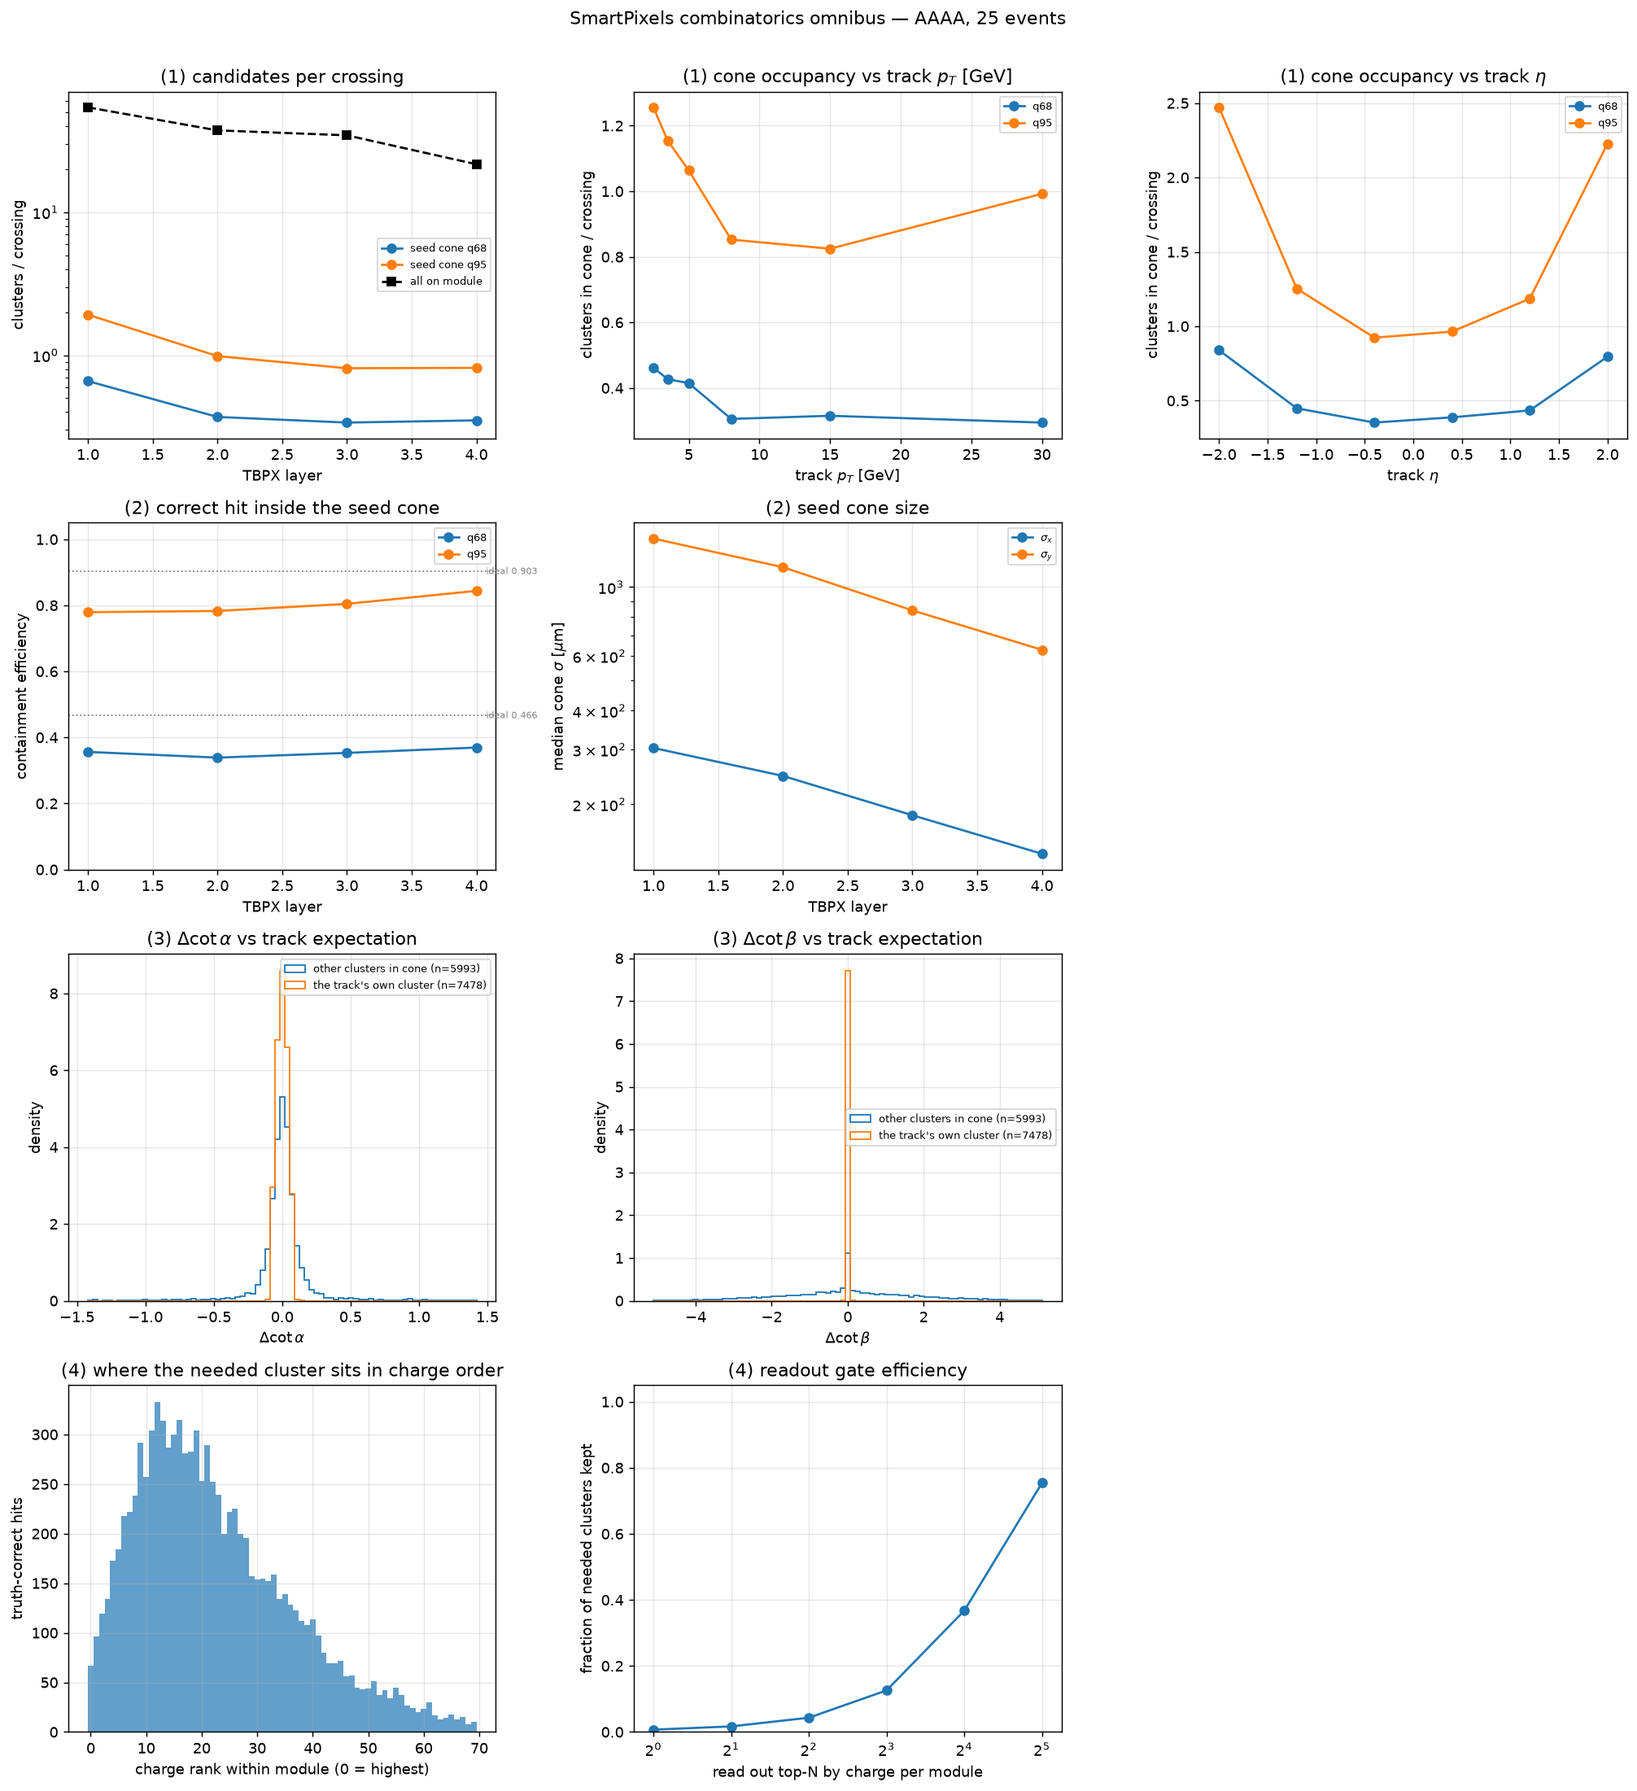
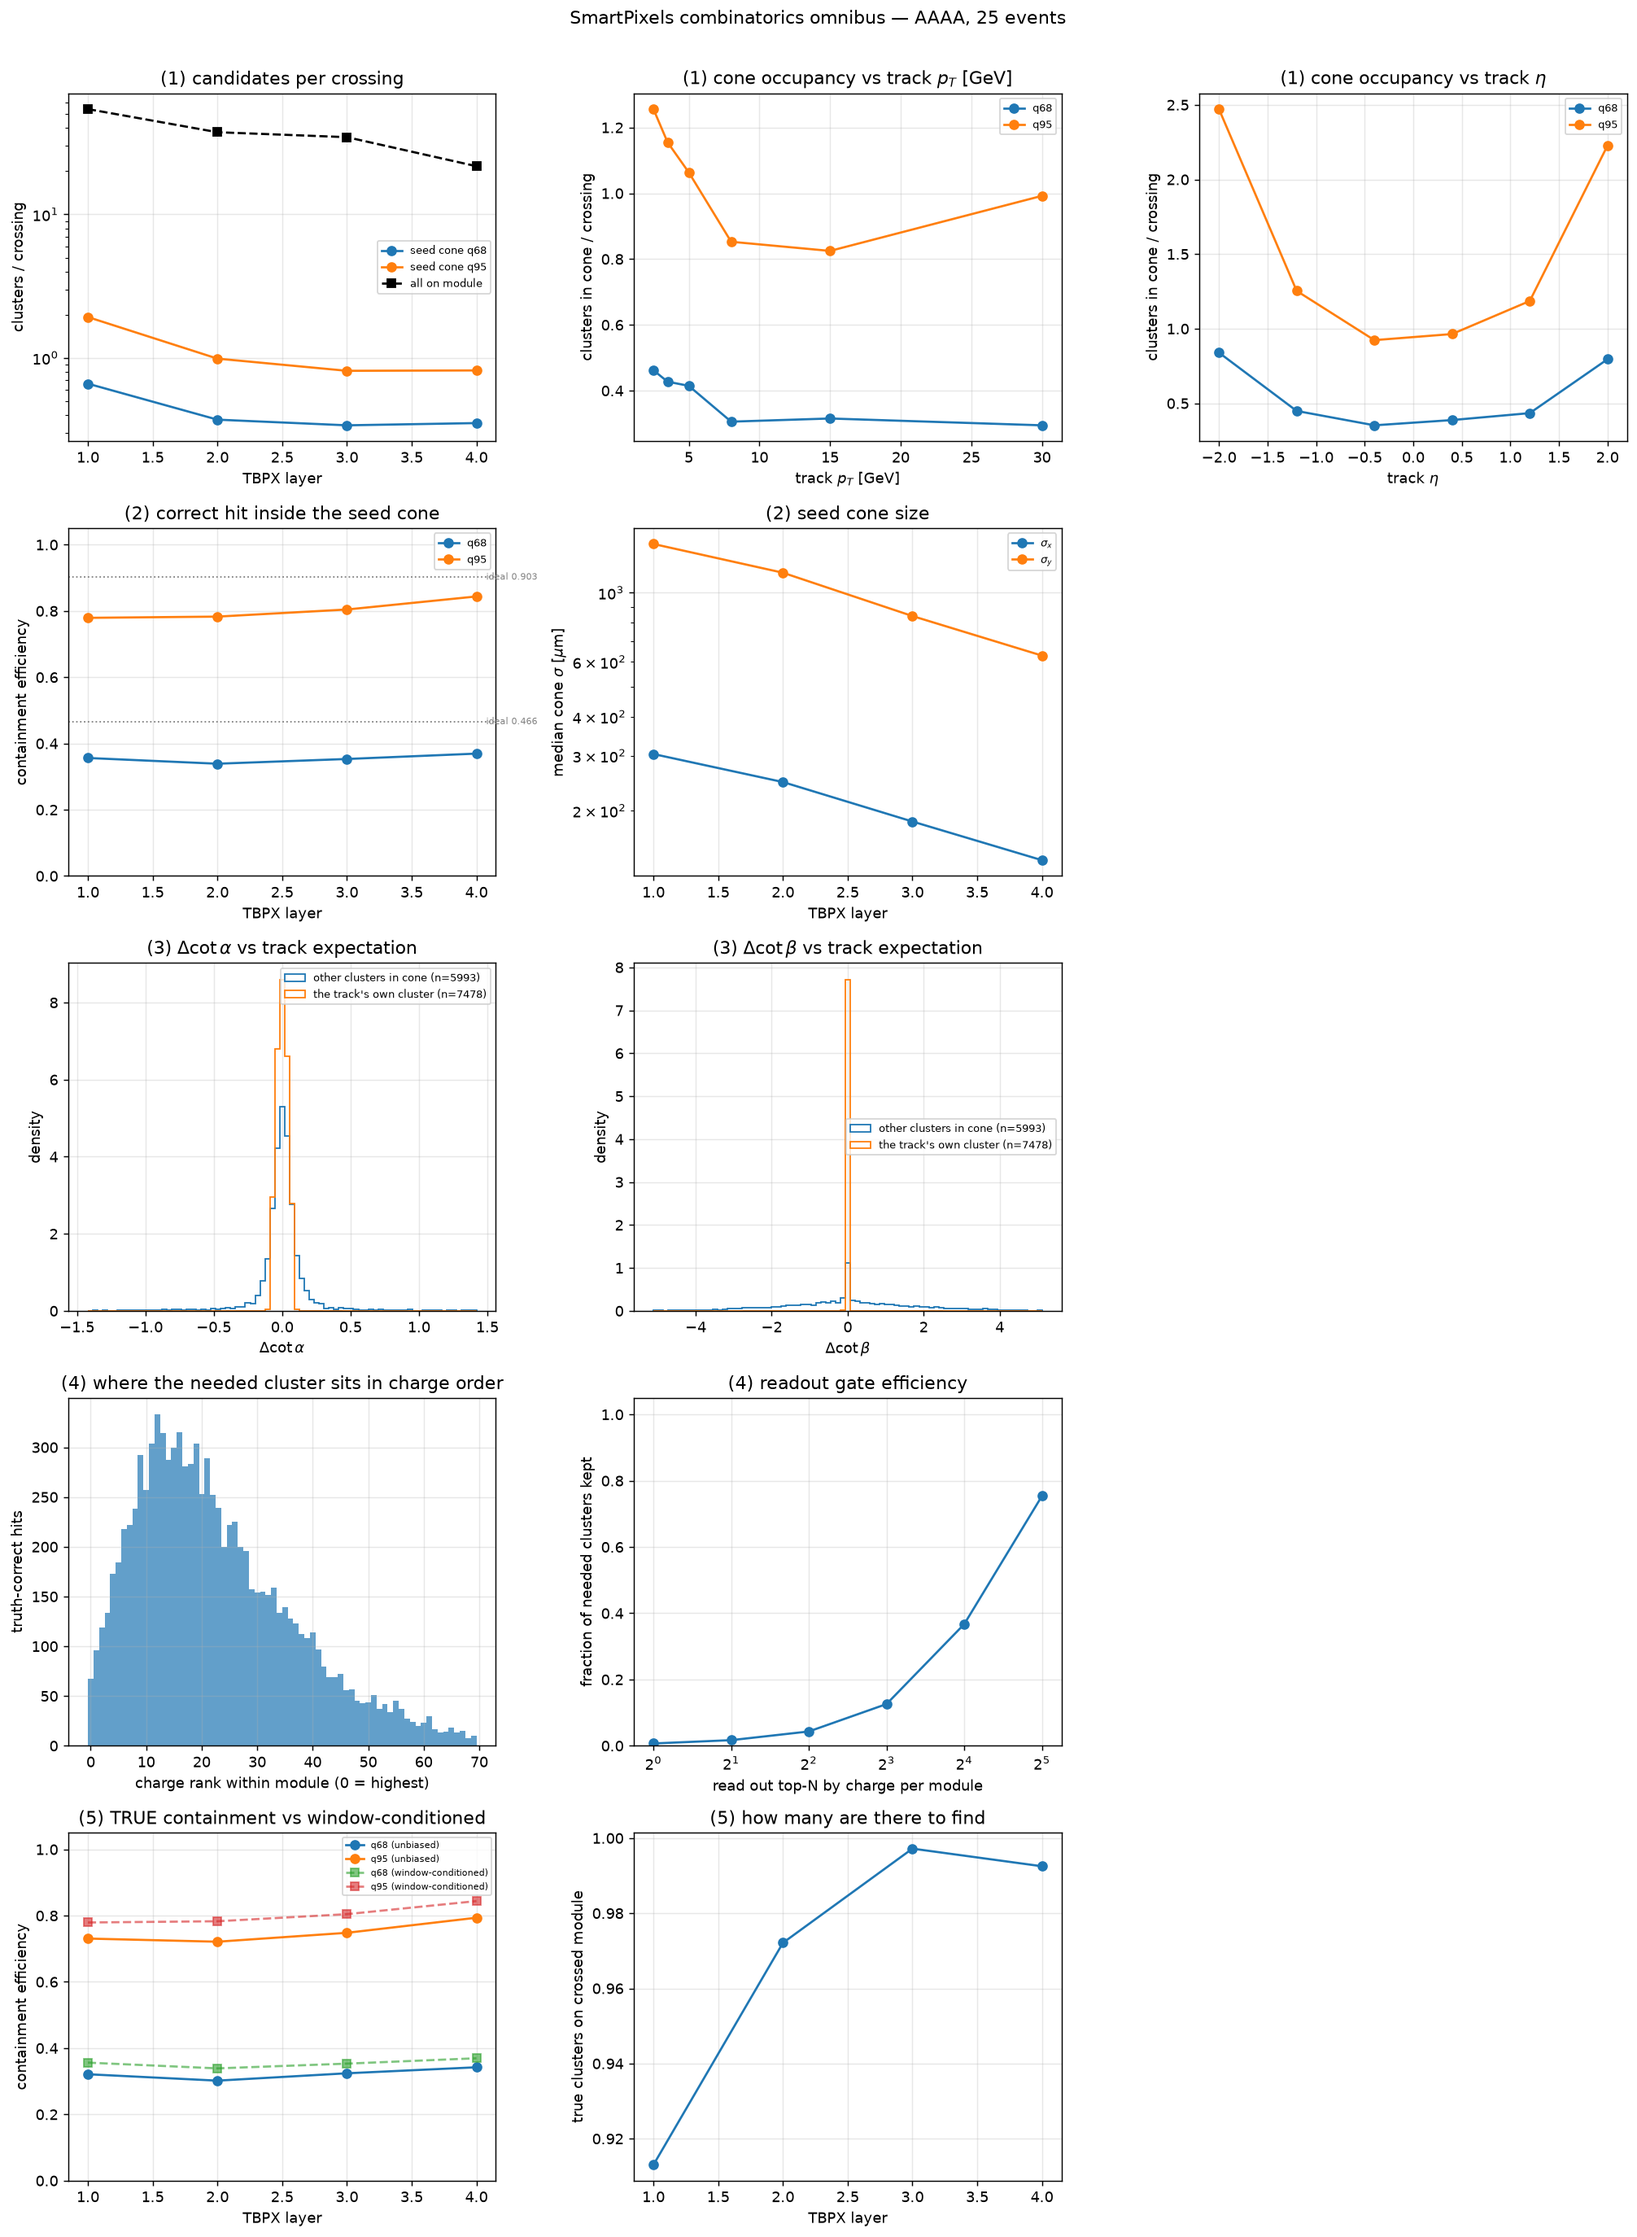
Use the exact cluster links; add unbiased cone containment
selClusterIdx and truthTpIdx now exist, so both reconstructions the script was
doing are replaced by the real links.

selected_global_index() uses selClusterIdx and ASSERTS
cluster[selClusterIdx].detId == crossing.detId, refusing to report anything if it
fails. The previous nearest-cluster matching was not merely inelegant: the two
tables disagree on position by up to 9.7 um (10-bit nano mantissa) against a
25 um pitch, so it could pick a neighbouring cluster and silently mislabel which
cluster the fit chose. Verified 100.0000% on 1660 noPU crossings and again on
PU200, 0 failures.

Study (5), unbiased containment, is the one these columns were added for. Study
(2) can only see clusters the current static window already offered, so it is
structurally blind to a true cluster the window never showed the fit -- exactly
the failure a cone redesign is meant to find. (5) locates the track's true
clusters by joining truthTpIdx to spixMatchedTpIdx, independent of the window.

PU200, 25 events, ideal box containment 0.466 (q68) / 0.903 (q95):

  q68   unbiased 0.320   window-conditioned 0.353
  q95   unbiased 0.744   window-conditioned 0.799

So the conditioning was worth about +3.5 to +5.5 points, i.e. the biased number
overstated the cone by that much, and the honest q95 containment is 0.744 against
an ideal 0.903. The cone is losing ~16% of the hits it needs, not ~10%. Per layer
the unbiased loss is worst at L2 (0.721) and mildest at L4 (0.794), which is the
[…]

diff --git a/eval_refitq/combinatorics/spix_combinatorics_omnibus.py b/eval_refitq/combinatorics/spix_combinatorics_omnibus.py
@@ -64,11 +64,11 @@ def _discover(path):
     need_hit = ["trackIdx", "layer", "detId", "hitAccepted", "selHitClass",
                 "projSeedLocalX", "projSeedLocalY", "projSeedSigX", "projSeedSigY",
                 "projSeedCotAlpha", "projSeedCotBeta", "projLocalX", "projLocalY",
-                "recoLocalX", "recoLocalY"]
+                "recoLocalX", "recoLocalY", "selClusterIdx"]
     miss_h = [c for c in need_hit if f"{hit}_{c}" not in keys]
     miss_c = ([CLUSTER_TABLE] if not any(k.startswith(CLUSTER_TABLE + "_") for k in keys)
               else [c for c in ("layer", "detId", "localX", "localY", "charge",
-                                "truthPt", "truthCotAlpha", "truthCotBeta")
+                                "truthPt", "truthCotAlpha", "truthCotBeta", "truthTpIdx")
                     if f"{CLUSTER_TABLE}_{c}" not in keys])
     if miss_h or miss_c:
         raise SystemExit(
@@ -85,7 +85,7 @@ def load(paths):
     files = [f for p in paths for f in (sorted(_glob.glob(p)) or [p])]
     hit, cfg, need_hit = _discover(files[0])
     ccols = ["layer", "detId", "localX", "localY", "charge", "truthPt",
-             "truthCotAlpha", "truthCotBeta", "sizeX", "sizeY"]
+             "truthCotAlpha", "truthCotBeta", "sizeX", "sizeY", "truthTpIdx"]
     rcols = ["pt", "eta"]
 
     H = uproot.concatenate([f"{f}:Events" for f in files],
@@ -107,10 +107,19 @@ def load(paths):
         flat = ak.to_numpy(ak.flatten(R[f"{REF}_{c}"]))
         X[f"trk_{c}"] = flat[off[ev_x] + X["trackIdx"].astype(np.int64)]
 
+    vtrk = uproot.concatenate([f"{f}:Events" for f in files],
+                              filter_name=[f"{hit.replace('RefitHit', 'Track')}_spixMatchedTpIdx"])
+    vname = f"{hit.replace('RefitHit', 'Track')}_spixMatchedTpIdx"
+    mtp = ak.to_numpy(ak.flatten(vtrk[vname]))
+    nmt = ak.to_numpy(ak.num(vtrk[vname]))
+    offm = np.concatenate([[0], np.cumsum(nmt)])
+    X["trk_tpIdx"] = mtp[offm[ev_x] + X["trackIdx"].astype(np.int64)]
+
     ncl = ak.to_numpy(ak.num(C[f"{CLUSTER_TABLE}_layer"]))
     ev_c = np.repeat(np.arange(len(ncl)), ncl)
     K = {c: ak.to_numpy(ak.flatten(C[f"{CLUSTER_TABLE}_{c}"])) for c in ccols}
     K["event"] = ev_c
+    K["_evt_base"] = np.concatenate([[0], np.cumsum(ncl)])
 
     print(f"files={len(files)} config={cfg} events={n_ev} "
           f"crossings={len(X['layer'])} clusters={len(K['layer'])}")
@@ -156,7 +165,9 @@ def prepare(X, K):
     P["dCotA"] = K["truthCotAlpha"][ci] - X["projSeedCotAlpha"][xi]
     P["dCotB"] = K["truthCotBeta"][ci] - X["projSeedCotBeta"][xi]
     P["ang_ok"] = (K["truthCotAlpha"][ci] > SENTINEL) & (X["projSeedCotAlpha"][xi] > SENTINEL)
-    P["is_selected"] = match_selected(X, K, P)
+    P["sel_gidx"] = selected_global_index(X, K)
+    # over PAIRS: is this pair the crossing's selected cluster?
+    P["is_selected"] = (P["sel_gidx"][P["xi"]] >= 0) & (P["ci"] == P["sel_gidx"][P["xi"]])
     return P
 
 
@@ -164,36 +175,25 @@ def in_cone(P, k):
     return P["good"] & (np.abs(P["nsigx"]) < k) & (np.abs(P["nsigy"]) < k)
 
 
-def match_selected(X, K, P):
-    """Boolean over PAIRS: is this cluster the one the crossing selected?
+def selected_global_index(X, K):
+    """Global cluster-table row of each crossing's SELECTED cluster, or -1.
 
-    Matched as the NEAREST cluster on the module to the stored reco position,
-    not by equality. Both tables write positions with 10-bit nano mantissa
-    precision, which on a ~0.5 cm coordinate is ~5 um -- comparable to the 25 um
-    x pitch -- so an equality test finds essentially nothing (measured: 1 match in
-    3368 crossings). Nearest-match is immune to that.
-
-    A selClusterIdx column on the refit hit table would make this exact and is the
-    right long-term fix; until then this is a reconstruction of a link the file
-    does not carry.
+    Uses the EXACT selClusterIdx link. Position matching was tried first and is
+    unsafe: both tables store coordinates at 10-bit nano mantissa precision, which
+    disagrees by up to 9.7 um against a 25 um pitch, so it can silently pick a
+    neighbouring cluster.
     """
-    xi, ci = P["xi"], P["ci"]
-    acc = (X["hitAccepted"] > 0) & (X["recoLocalX"] > SENTINEL)
-    d2 = ((K["localX"][ci] - X["recoLocalX"][xi]) ** 2
-          + (K["localY"][ci] - X["recoLocalY"][xi]) ** 2)
-    d2 = np.where(acc[xi], d2, np.inf)
-    best = np.full(len(X["layer"]), np.inf)
-    np.minimum.at(best, xi, d2)
-    sel = np.isfinite(d2) & (d2 <= best[xi]) & acc[xi]
-    # guard against ties selecting two clusters for one crossing
-    first = np.zeros(len(X["layer"]), dtype=bool)
-    keep = np.zeros(len(xi), dtype=bool)
-    idx = np.flatnonzero(sel)
-    for j in idx:                      # ties are rare; cheap loop over matches only
-        if not first[xi[j]]:
-            first[xi[j]] = True
-            keep[j] = True
-    return keep
+    g = np.where(X["selClusterIdx"] >= 0,
+                 K["_evt_base"][X["event"]] + X["selClusterIdx"].astype(np.int64), -1)
+    ok = g >= 0
+    if ok.any():
+        bad = int((K["detId"][g[ok]] != X["detId"][ok]).sum())
+        if bad:
+            raise SystemExit(
+                f"selClusterIdx integrity check FAILED on {bad} crossings: the cluster it "
+                "points at is on a different module. The refit and cluster tables have "
+                "diverged in filter or iteration order; do not trust any result from this file.")
+    return g
 
 
 # --------------------------------------------------------------------------
@@ -349,11 +349,66 @@ def study_charge_gate(X, K, P, ax_row, out):
     out["charge_gate"] = res
 
 
+def study_true_containment(X, K, P, ax_row, out):
+    """(5) UNBIASED containment: of the clusters that genuinely belong to this
+    track's TrackingParticle and sit on the module it crosses, how many does the
+    cone hold?
+
+    This is the study that selClusterIdx and truthTpIdx were added for. Study (2)
+    can only ever see clusters the current static window already offered, so it
+    cannot detect a true cluster the window never showed the fit -- exactly the
+    failure a cone redesign is meant to fix. Here the truth clusters are found by
+    joining truthTpIdx to the track's spixMatchedTpIdx, independently of what the
+    window did, so a cluster the window missed still counts against the cone.
+    """
+    xi, ci = P["xi"], P["ci"]
+    have = (X["trk_tpIdx"][xi] >= 0) & (K["truthTpIdx"][ci] >= 0)
+    is_true = have & (K["truthTpIdx"][ci] == X["trk_tpIdx"][xi])
+    res = {"n_true_pairs": int(is_true.sum())}
+    ax = ax_row[0]
+    for cname, k in CONES.items():
+        m = is_true & P["good"]
+        if m.sum() < 20:
+            continue
+        inside = m & in_cone(P, k)
+        eff = []
+        for L in LAYERS:
+            sel = m & (X["layer"][xi] == L)
+            eff.append(float(inside[sel].mean()) if sel.any() else np.nan)
+        ax.plot(LAYERS, eff, marker="o", label=f"{cname} (unbiased)")
+        res[cname] = {"per_layer_eff": eff, "overall_eff": float(inside[m].mean())}
+    # the biased version, for direct contrast on the same axes
+    bc = out.get("cone_containment", {})
+    for cname in CONES:
+        if cname in bc:
+            ax.plot(LAYERS, bc[cname]["per_layer_eff"], marker="s", ls="--", alpha=.6,
+                    label=f"{cname} (window-conditioned)")
+    ax.set_xlabel("TBPX layer"); ax.set_ylabel("containment efficiency")
+    ax.set_title("(5) TRUE containment vs window-conditioned")
+    ax.legend(fontsize=6); ax.grid(alpha=.3); ax.set_ylim(0, 1.05)
+
+    # how many true clusters does a track even have on the module it crosses?
+    ax = ax_row[1]
+    n_true = np.bincount(xi[is_true], minlength=len(X["layer"]))
+    for L in LAYERS:
+        sel = X["layer"] == L
+        if sel.any():
+            ax.plot(L, n_true[sel].mean(), marker="o", color="C0")
+    res["mean_true_clusters_on_module"] = [
+        float(n_true[X["layer"] == L].mean()) if (X["layer"] == L).any() else float("nan")
+        for L in LAYERS]
+    ax.plot(LAYERS, res["mean_true_clusters_on_module"], color="C0")
+    ax.set_xlabel("TBPX layer"); ax.set_ylabel("true clusters on crossed module")
+    ax.set_title("(5) how many are there to find"); ax.grid(alpha=.3)
+    out["true_containment"] = res
+
+
 STUDIES = [
     ("cone occupancy", study_cone_occupancy, 3),
     ("cone containment + size", study_cone_containment, 2),
     ("angle discrimination", study_angle_discrimination, 2),
     ("charge readout gate", study_charge_gate, 2),
+    ("unbiased containment", study_true_containment, 2),
 ]
 
 
